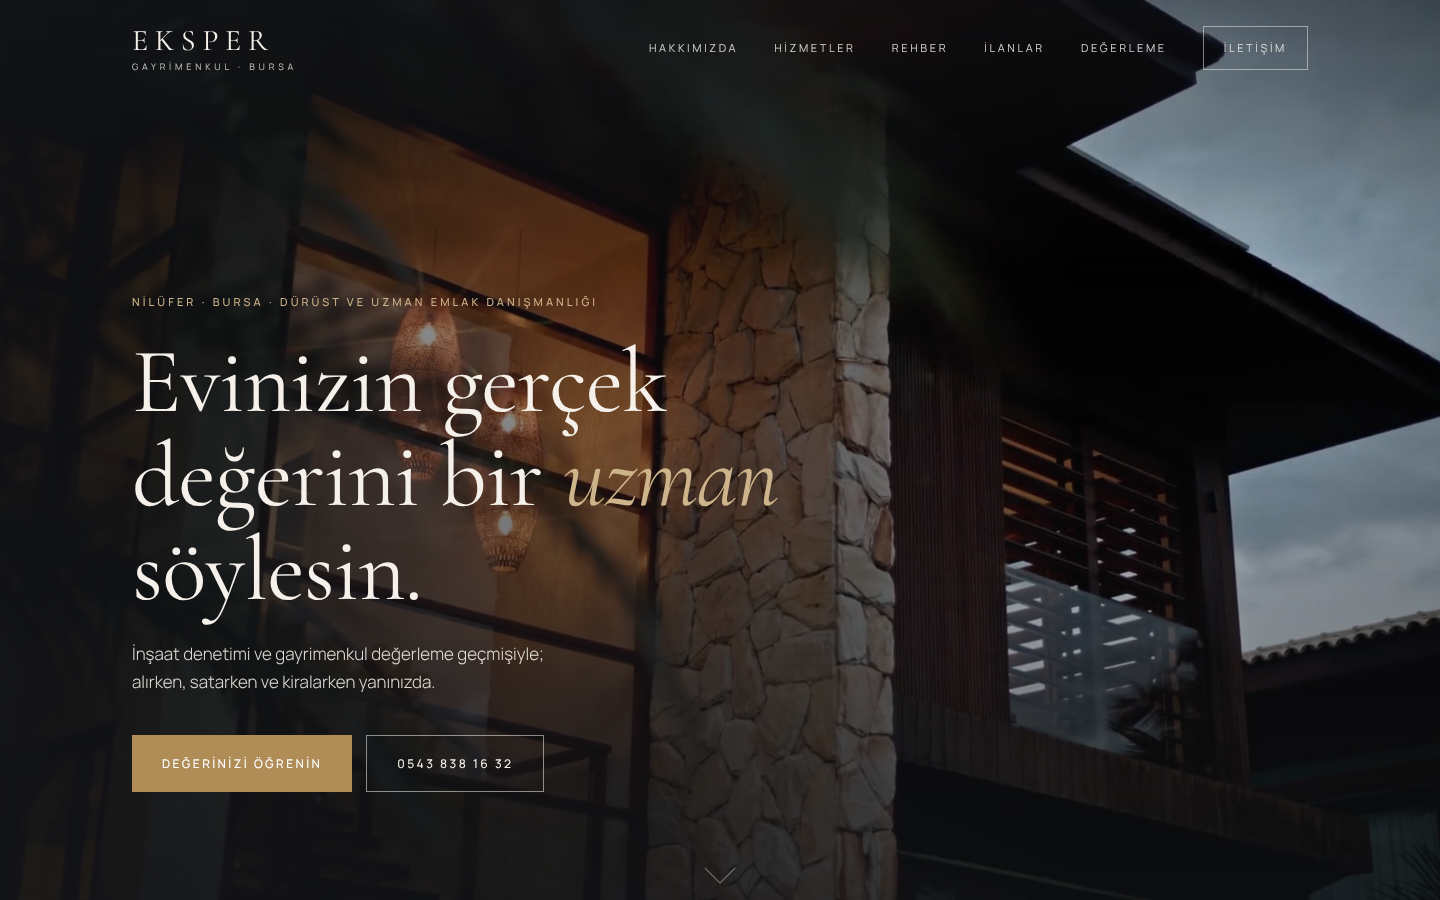
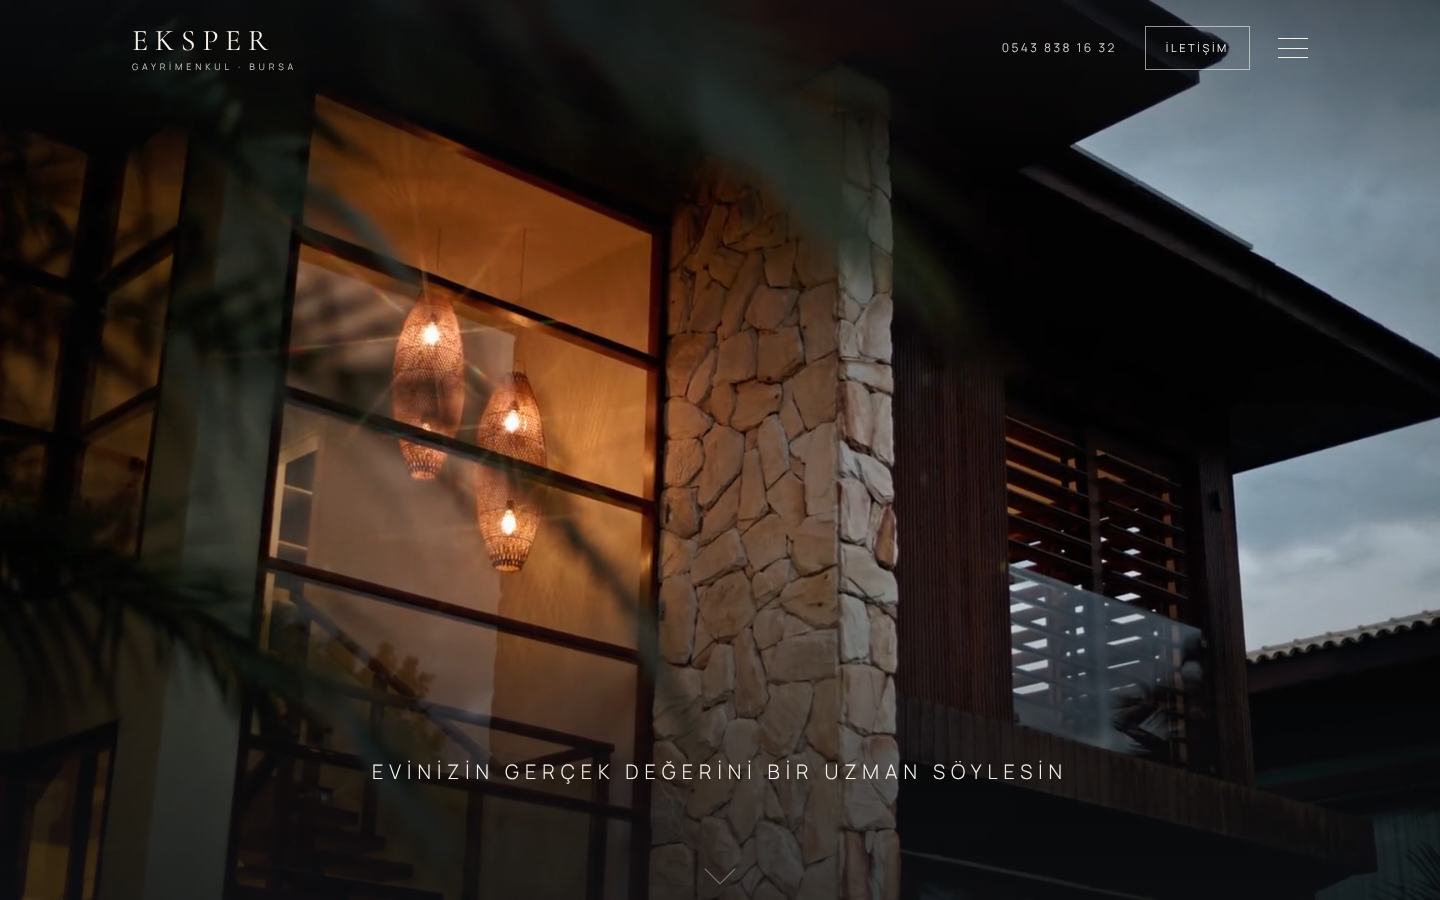
Carolwood tarzı sade ilk ekran ve tam ekran menü
Claude-Session: https://claude.ai/code/session_01RpRroQoF4BRD7ftTEzAbsX

diff --git a/index.html b/index.html
@@ -35,21 +35,36 @@
   .logo { display: flex; flex-direction: column; line-height: 1; }
   .logo b { font-family: var(--serif); font-weight: 400; font-size: 30px; letter-spacing: .22em; }
   .logo span { font-size: 9px; letter-spacing: .42em; margin-top: 6px; opacity: .8; }
-  nav { display: flex; gap: 36px; align-items: center; }
-  nav a { font-size: 11px; letter-spacing: .24em; text-transform: uppercase; opacity: .85; transition: opacity .3s; }
-  nav a:hover { opacity: 1; }
+  .hright { display: flex; align-items: center; gap: 28px; }
+  .hphone { font-size: 12px; letter-spacing: .2em; opacity: .85; }
+  .btn-line { font-size: 11px; letter-spacing: .24em; text-transform: uppercase; }
+  .burger { background: none; border: 0; cursor: pointer; width: 30px; height: 20px; position: relative; padding: 0; }
+  .burger span { position: absolute; left: 0; right: 0; height: 1px; background: var(--cream); }
+  .burger span:nth-child(1) { top: 0; } .burger span:nth-child(2) { top: 9.5px; } .burger span:nth-child(3) { bottom: 0; }
+
+  /* Full-screen menu */
+  .menu { position: fixed; inset: 0; z-index: 50; background: rgba(20,22,26,.97); color: var(--cream); display: flex; flex-direction: column; align-items: center; justify-content: center; gap: 56px; opacity: 0; visibility: hidden; transition: opacity .5s ease, visibility .5s; }
+  .menu.open { opacity: 1; visibility: visible; }
+  .menu-close { position: absolute; top: 36px; right: max(32px, calc((100vw - 1240px) / 2 + 32px)); width: 30px; height: 30px; background: none; border: 0; cursor: pointer; }
+  .menu-close::before, .menu-close::after { content: ""; position: absolute; left: 0; right: 0; top: 50%; height: 1px; background: var(--cream); transform: rotate(45deg); }
+  .menu-close::after { transform: rotate(-45deg); }
+  .menu-nav { display: flex; flex-direction: column; align-items: center; gap: 10px; }
+  .menu-nav a { font-family: var(--serif); font-size: clamp(34px, 4.6vw, 58px); line-height: 1.2; opacity: 0; transform: translateY(14px); transition: opacity .6s ease, transform .6s ease, color .3s; }
+  .menu.open .menu-nav a { opacity: 1; transform: none; }
+  .menu.open .menu-nav a:nth-child(2) { transition-delay: .05s; } .menu.open .menu-nav a:nth-child(3) { transition-delay: .1s; }
+  .menu.open .menu-nav a:nth-child(4) { transition-delay: .15s; } .menu.open .menu-nav a:nth-child(5) { transition-delay: .2s; } .menu.open .menu-nav a:nth-child(6) { transition-delay: .25s; }
+  .menu-nav a:hover { color: var(--gold-soft); }
+  .menu-foot { text-align: center; }
+  .menu-foot p { margin-top: 24px; font-size: 13px; letter-spacing: .14em; opacity: .7; }
   .btn-line { border: 1px solid rgba(245,241,234,.6); padding: 12px 20px; }
   .btn-line:hover { background: var(--cream); color: var(--ink); }
 
   /* Hero */
-  .hero { position: relative; min-height: 100vh; min-height: 100svh; display: flex; align-items: flex-end; color: var(--cream); overflow: hidden; }
+  .hero { position: relative; min-height: 100vh; min-height: 100svh; display: flex; align-items: flex-end; justify-content: center; color: var(--cream); overflow: hidden; }
   .hero video { position: absolute; inset: 0; width: 100%; height: 100%; object-fit: cover; }
-  .hero::after { content: ""; position: absolute; inset: 0; background: linear-gradient(90deg, rgba(20,22,26,.72) 0%, rgba(20,22,26,.35) 45%, rgba(20,22,26,0) 75%), linear-gradient(180deg, rgba(20,22,26,.5) 0%, rgba(20,22,26,0) 30%, rgba(20,22,26,.6) 100%); }
-  .hero .wrap { position: relative; z-index: 1; padding-bottom: 12vh; width: 100%; }
-  .hero .eyebrow { color: var(--gold-soft); margin-bottom: 24px; }
-  .hero h1 { font-family: var(--serif); font-weight: 400; font-size: clamp(42px, 6.4vw, 92px); line-height: 1.02; max-width: 15ch; letter-spacing: -.01em; }
-  .hero h1 em { color: var(--gold-soft); }
-  .hero p { max-width: 46ch; margin-top: 24px; font-size: 17px; font-weight: 300; opacity: .9; }
+  .hero::after { content: ""; position: absolute; inset: 0; background: linear-gradient(180deg, rgba(20,22,26,.45) 0%, rgba(20,22,26,0) 22%, rgba(20,22,26,0) 60%, rgba(20,22,26,.55) 100%); }
+  .hero-line { position: relative; z-index: 1; margin: 0 20px 112px; text-align: center; font-family: var(--sans); font-weight: 300; font-size: clamp(14px, 1.5vw, 20px); letter-spacing: .3em; text-transform: uppercase; line-height: 1.6; opacity: 0; animation: fadeup 1.6s .4s ease forwards; }
+  @keyframes fadeup { from { opacity: 0; transform: translateY(10px); } to { opacity: 1; transform: none; } }
   .actions { display: flex; gap: 14px; margin-top: 40px; flex-wrap: wrap; }
   .btn { display: inline-flex; align-items: center; gap: 10px; padding: 18px 30px; font-size: 12px; letter-spacing: .2em; text-transform: uppercase; font-weight: 500; transition: all .3s; }
   .btn-gold { background: var(--gold); color: #fff; }
@@ -183,7 +198,12 @@
 
   @media (max-width: 900px) {
     .wrap { padding: 0 20px; }
-    nav a:not(.btn-line) { display: none; }
+    .hphone { display: none; }
+    .hright { gap: 18px; }
+    .btn-line { padding: 10px 14px; font-size: 10px; }
+    .hero-line { margin-bottom: 132px; letter-spacing: .22em; }
+    .scroll-cue { bottom: 88px; }
+    .menu-close { top: 26px; right: 20px; }
     header .wrap { height: 76px; }
     .logo b { font-size: 24px; }
     section { padding: 88px 0; }
@@ -220,6 +240,7 @@
     .mbar a:last-child { background: var(--gold); color: #fff; }
   }
   @media (prefers-reduced-motion: reduce) {
+    .hero-line { animation: none; opacity: 1; }
     .rv { opacity: 1; transform: none; transition: none; }
   }
 </style>
@@ -229,30 +250,35 @@
 <header>
   <div class="wrap">
     <a href="#" class="logo"><b>EKSPER</b><span>GAYRİMENKUL · BURSA</span></a>
-    <nav>
-      <a href="#hakkimizda">Hakkımızda</a>
-      <a href="#hizmetler">Hizmetler</a>
-      <a href="#rehber">Rehber</a>
-      <a href="#ilanlar">İlanlar</a>
-      <a href="#degerleme">Değerleme</a>
+    <div class="hright">
+      <a href="tel:+905438381632" class="hphone">0543 838 16 32</a>
       <a href="#iletisim" class="btn-line">İletişim</a>
-    </nav>
+      <button class="burger" aria-label="Menüyü aç" aria-expanded="false" aria-controls="menu"><span></span><span></span><span></span></button>
+    </div>
   </div>
 </header>
+
+<div class="menu" id="menu" aria-hidden="true">
+  <button class="menu-close" aria-label="Menüyü kapat"></button>
+  <nav class="menu-nav">
+    <a href="#hakkimizda">Hakkımızda</a>
+    <a href="#hizmetler">Hizmetler</a>
+    <a href="#rehber">Rehber</a>
+    <a href="#ilanlar">İlanlar</a>
+    <a href="#degerleme">Değerleme</a>
+    <a href="#iletisim">İletişim</a>
+  </nav>
+  <div class="menu-foot">
+    <a href="#degerleme" class="btn btn-gold">Değerinizi Öğrenin</a>
+    <p><a href="tel:+905438381632">0543 838 16 32</a> · Beşevler, Nilüfer / Bursa</p>
+  </div>
+</div>
 
 <div class="hero">
   <video id="heroVideo" autoplay muted loop playsinline preload="auto" poster="video/hero-poster.jpg" aria-hidden="true">
     <source src="video/hero.mp4" type="video/mp4">
   </video>
-  <div class="wrap">
-    <div class="eyebrow">Nilüfer · Bursa · Dürüst ve uzman emlak danışmanlığı</div>
-    <h1>Evinizin gerçek değerini bir <em>uzman</em> söylesin.</h1>
-    <p>İnşaat denetimi ve gayrimenkul değerleme geçmişiyle; alırken, satarken ve kiralarken yanınızda.</p>
-    <div class="actions">
-      <a href="#degerleme" class="btn btn-gold">Değerinizi Öğrenin</a>
-      <a href="tel:+905438381632" class="btn btn-ghost">0543 838 16 32</a>
-    </div>
-  </div>
+  <h1 class="hero-line">Evinizin gerçek değerini bir uzman söylesin</h1>
   <a href="#hakkimizda" class="scroll-cue" aria-label="Aşağı kaydır"></a>
 </div>
 
@@ -424,6 +450,13 @@
     hv.load();
   }
   if (matchMedia('(prefers-reduced-motion: reduce)').matches) { hv.removeAttribute('autoplay'); hv.pause(); }
+
+  const menu = document.getElementById('menu'), burger = document.querySelector('.burger');
+  const setMenu = open => { menu.classList.toggle('open', open); menu.setAttribute('aria-hidden', !open); burger.setAttribute('aria-expanded', open); document.body.style.overflow = open ? 'hidden' : ''; };
+  burger.addEventListener('click', () => setMenu(true));
+  menu.querySelector('.menu-close').addEventListener('click', () => setMenu(false));
+  menu.querySelectorAll('a').forEach(a => a.addEventListener('click', () => setMenu(false)));
+  addEventListener('keydown', e => { if (e.key === 'Escape') setMenu(false); });
 </script>
 </body>
 </html>
